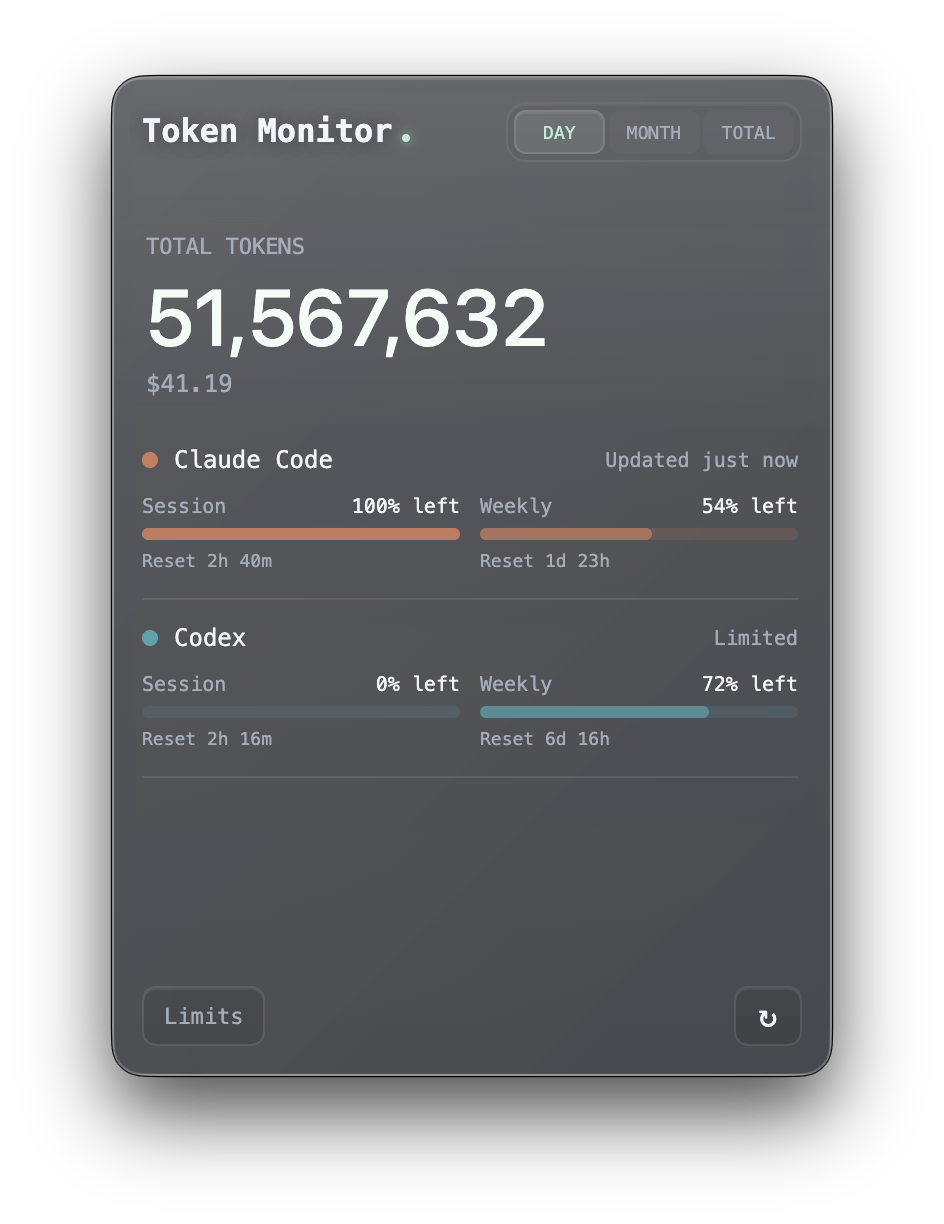
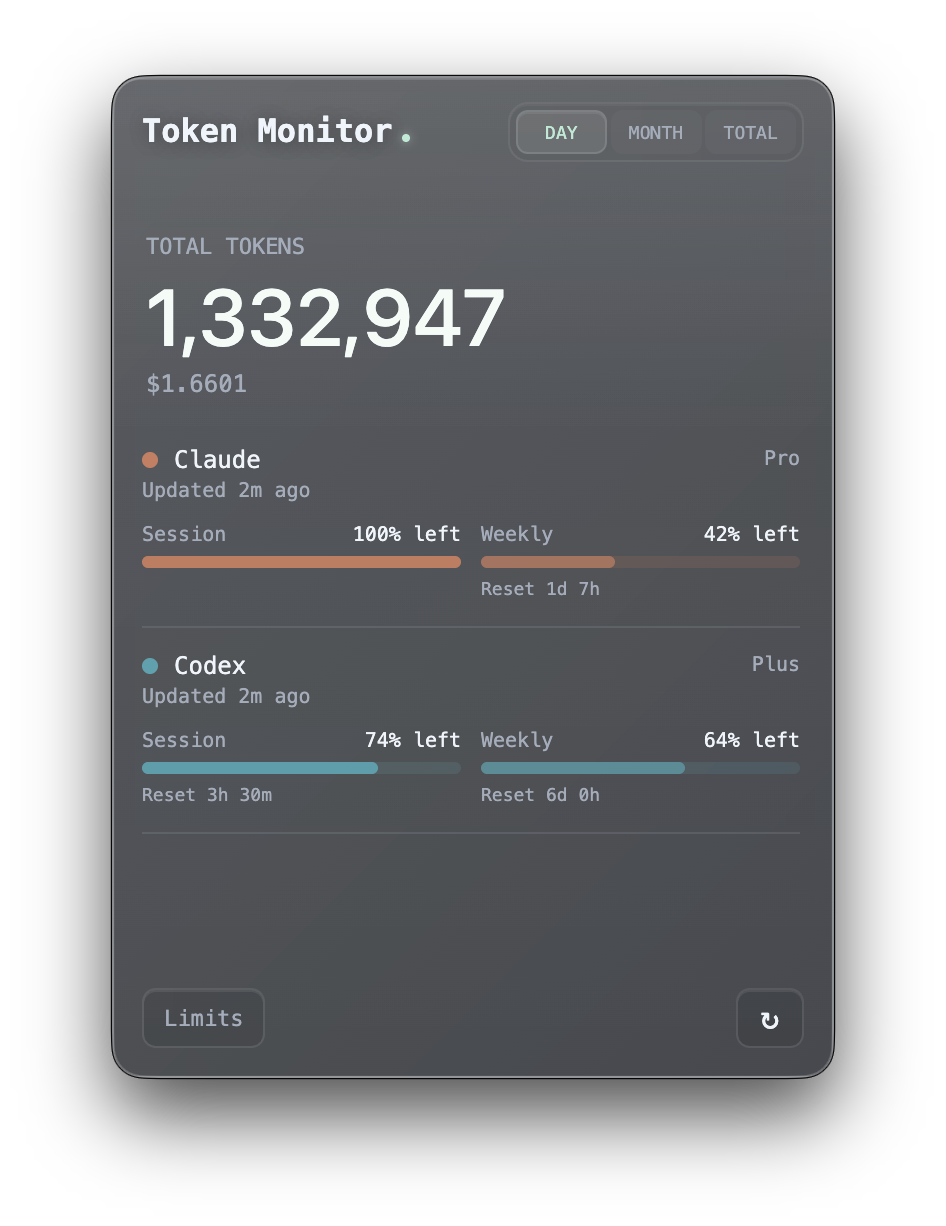
feat: show AI Tool Limits plan labels

diff --git a/src/shared/limitCollector.js b/src/shared/limitCollector.js
@@ -86,6 +86,23 @@ function uniqueStrings(values) {
   return out;
 }
 
+function planLabelFromParts(...parts) {
+  const text = parts.map((part) => String(part || '')).find(Boolean) || '';
+  const raw = text.toLowerCase().replace(/^(claude|chatgpt|openai)[\s_-]+/, '').replace(/[_-]+/g, ' ').trim();
+  if (!raw || raw.includes('@')) return '';
+  const aliases = {
+    free: 'Free',
+    plus: 'Plus',
+    pro: 'Pro',
+    max: 'Max',
+    team: 'Team',
+    teams: 'Team',
+    enterprise: 'Enterprise'
+  };
+  if (aliases[raw]) return aliases[raw];
+  return raw.split(/\s+/).slice(0, 3).map((word) => word.charAt(0).toUpperCase() + word.slice(1)).join(' ');
+}
+
 function extractClaudeOauth(credentials) {
   return credentials?.claudeAiOauth || credentials?.oauth || credentials || null;
 }
@@ -105,7 +122,8 @@ async function readClaudeCredentials(deps = {}) {
     if (oauth?.accessToken) {
       return {
         accessToken: String(oauth.accessToken),
-        identity: `path:${env.CLAUDE_CONFIG_DIR ? 'CLAUDE_CONFIG_DIR/.credentials.json' : '~/.claude/.credentials.json'}:${oauth.subscriptionType || ''}:${oauth.rateLimitTier || ''}`
+        identity: `path:${env.CLAUDE_CONFIG_DIR ? 'CLAUDE_CONFIG_DIR/.credentials.json' : '~/.claude/.credentials.json'}:${oauth.subscriptionType || ''}:${oauth.rateLimitTier || ''}`,
+        accountLabel: planLabelFromParts(oauth.subscriptionType, oauth.rateLimitTier)
       };
     }
   } catch (error) {
@@ -119,7 +137,8 @@ async function readClaudeCredentials(deps = {}) {
       if (oauth?.accessToken) {
         return {
           accessToken: String(oauth.accessToken),
-          identity: `keychain:Claude Code-credentials:${oauth.subscriptionType || ''}:${oauth.rateLimitTier || ''}`
+          identity: `keychain:Claude Code-credentials:${oauth.subscriptionType || ''}:${oauth.rateLimitTier || ''}`,
+          accountLabel: planLabelFromParts(oauth.subscriptionType, oauth.rateLimitTier)
         };
       }
     }
@@ -217,6 +236,7 @@ function mapClaudeUsageToProvider(usage, meta = {}) {
   return normalizeLimitProvider({
     provider: 'claude',
     accountKey: meta.accountKey || '',
+    accountLabel: meta.accountLabel || '',
     source: meta.source || 'oauth',
     status: 'ok',
     updatedAt: meta.updatedAt,
@@ -235,6 +255,7 @@ async function fetchClaudeLimits(options = {}, deps = {}) {
     }, deps);
     return mapClaudeUsageToProvider(usage, {
       accountKey: hashKey('claude', credentials.identity),
+      accountLabel: credentials.accountLabel,
       updatedAt: nowIso(nowMs),
       source: 'oauth'
     });
@@ -367,6 +388,7 @@ function parseClaudeCliUsageText(text, now = new Date()) {
   const secondaryResetDescription = extractClaudeReset(lines, 'Current week');
   const accountEmail = (clean.match(/(?:Account|Email):\s*([^\s@]+@[^\s@]+)/i) || [])[1] || '';
   const accountOrganization = ((clean.match(/(?:Org|Organization):\s*(.+)/i) || [])[1] || '').trim();
+  const accountLabel = planLabelFromParts((clean.match(/(?:Plan|Subscription):\s*([A-Za-z][A-Za-z0-9 _-]{0,30})/i) || [])[1] || '');
   if (sessionPercentLeft === null) throw errorWithStatus('unavailable', 'Claude CLI usage missing current session');
   return {
     sessionPercentLeft,
@@ -375,6 +397,7 @@ function parseClaudeCliUsageText(text, now = new Date()) {
     secondaryResetDescription,
     primaryResetsAt: parseClaudeResetDate(primaryResetDescription, now),
     secondaryResetsAt: parseClaudeResetDate(secondaryResetDescription, now),
+    accountLabel,
     accountKey: [accountEmail, accountOrganization].filter(Boolean).join('|') || 'claude-cli'
   };
 }
@@ -399,6 +422,7 @@ function mapClaudeCliUsageToProvider(text, meta = {}) {
   return normalizeLimitProvider({
     provider: 'claude',
     accountKey: hashKey('claude-cli', parsed.accountKey),
+    accountLabel: parsed.accountLabel,
     source: 'cli',
     status: 'ok',
     updatedAt: meta.updatedAt,
@@ -513,8 +537,30 @@ function codexWindowKind(name, window) {
   return 'session';
 }
 
+function codexRateLimitSnapshot(payload = {}) {
+  const rateLimitsById = payload.rateLimitsByLimitId || payload.rate_limits_by_limit_id || {};
+  return rateLimitsById.codex || payload.rateLimits || payload.rate_limits || {};
+}
+
+function codexAccountLabel(payload = {}) {
+  const snapshot = codexRateLimitSnapshot(payload);
+  const account = payload.account || {};
+  return planLabelFromParts(
+    snapshot.planType,
+    snapshot.plan_type,
+    account.planType,
+    account.plan_type,
+    account.loginMethod,
+    account.login_method,
+    account.plan,
+    account.subscription?.planType,
+    account.subscription?.plan_type,
+    account.subscription?.plan
+  );
+}
+
 function mapCodexRateLimitsToProvider(payload, meta = {}) {
-  const rateLimits = payload?.rateLimits || payload?.rate_limits || {};
+  const rateLimits = codexRateLimitSnapshot(payload);
   const windows = [];
   for (const key of ['primary', 'secondary']) {
     const window = rateLimits[key];
@@ -529,6 +575,7 @@ function mapCodexRateLimitsToProvider(payload, meta = {}) {
   return normalizeLimitProvider({
     provider: 'codex',
     accountKey: meta.accountKey || '',
+    accountLabel: meta.accountLabel || codexAccountLabel(payload),
     source: meta.source || 'rpc',
     status: rateLimits.rateLimitReachedType ? 'rateLimited' : 'ok',
     updatedAt: meta.updatedAt,
@@ -724,11 +771,12 @@ async function readCodexRpcWithCommand(command, deps = {}) {
     const rateLimitResult = await rpc.send('account/rateLimits/read');
     const accountResult = await rpc.send('account/read').catch(() => null);
     const account = accountResult?.account || null;
-    const rateLimits = rateLimitResult?.rateLimits || rateLimitResult?.rate_limits || {};
+    const rateLimitsByLimitId = rateLimitResult?.rateLimitsByLimitId || rateLimitResult?.rate_limits_by_limit_id || {};
+    const rateLimits = rateLimitResult?.rateLimits || rateLimitResult?.rate_limits || rateLimitsByLimitId.codex || {};
     if (!account && !rateLimits?.primary && !rateLimits?.secondary) {
       throw errorWithStatus('notConfigured', 'Codex account not configured');
     }
-    return { account, rateLimits };
+    return { account, rateLimits, rateLimitsByLimitId };
   } finally {
     try { child.kill('SIGTERM'); } catch (_) {}
   }
@@ -755,6 +803,7 @@ async function fetchCodexLimits(options = {}, deps = {}) {
   const identity = payload.account?.email || `${payload.account?.type || 'account'}:${payload.account?.planType || ''}:${deps.codexAuthPath || codexAuthPath(deps.env || process.env)}`;
   return mapCodexRateLimitsToProvider(payload, {
     accountKey: hashKey('codex', identity),
+    accountLabel: codexAccountLabel(payload),
     updatedAt: nowIso(nowMs),
     source: 'rpc'
   });

diff --git a/src/electron/renderer/app.js b/src/electron/renderer/app.js
@@ -11,7 +11,7 @@ const KNOWN_CLIENTS = [
   { id: 'cursor', label: 'Cursor' }
 ];
 const LIMIT_PROVIDERS = [
-  { id: 'claude', label: 'Claude Code' },
+  { id: 'claude', label: 'Claude', settingsLabel: 'Claude Code' },
   { id: 'codex', label: 'Codex' }
 ];
 const LIMIT_REFRESH_OPTIONS = [60000, 120000, 300000, 900000, 1800000];
@@ -204,6 +204,12 @@ function limitProviderMeta(provider) {
   return limitStatusLabel(provider.status, false);
 }
 
+function limitProviderPlan(provider) {
+  const label = String(provider?.accountLabel || '').trim();
+  if (label) return label;
+  return provider?.status && provider.status !== 'ok' ? limitStatusLabel(provider.status, false) : '';
+}
+
 function enabledLimitProviderSet() {
   if (state.settings?.limitsEnabled === false) return new Set();
   const raw = state.settings?.limitProviders;
@@ -271,6 +277,8 @@ function renderLimits() {
     row.className = `limit-row${provider.stale ? ' stale' : ''}`;
     const head = document.createElement('div');
     head.className = 'limit-head';
+    const titleBlock = document.createElement('div');
+    titleBlock.className = 'limit-title';
     const name = document.createElement('div');
     name.className = 'limit-name';
     const dot = document.createElement('span');
@@ -279,10 +287,14 @@ function renderLimits() {
     const title = document.createElement('span');
     title.textContent = label;
     name.append(dot, title);
-    const status = document.createElement('div');
-    status.className = 'limit-status';
-    status.textContent = limitProviderMeta(provider);
-    head.append(name, status);
+    const meta = document.createElement('div');
+    meta.className = 'limit-meta';
+    meta.textContent = provider.status === 'ok' || provider.stale ? limitProviderMeta(provider) : '';
+    titleBlock.append(name, meta);
+    const plan = document.createElement('div');
+    plan.className = 'limit-plan';
+    plan.textContent = limitProviderPlan(provider);
+    head.append(titleBlock, plan);
     const windows = document.createElement('div');
     windows.className = 'limit-windows';
     windows.append(limitWindowNode('Session', windowForKind(provider, 'session'), color, 0.95));
@@ -468,7 +480,7 @@ function renderLimitProviderCheckboxes() {
   }
   const enabled = enabledLimitProviderSet();
   els.limitProviderCheckboxes.replaceChildren();
-  for (const { id, label } of LIMIT_PROVIDERS) {
+  for (const { id, label, settingsLabel } of LIMIT_PROVIDERS) {
     const wrap = document.createElement('label');
     wrap.className = 'client-checkbox';
     const cb = document.createElement('input');
@@ -477,7 +489,7 @@ function renderLimitProviderCheckboxes() {
     cb.checked = enabled.has(id);
     cb.addEventListener('change', onLimitProviderToggle);
     const text = document.createElement('span');
-    text.textContent = label;
+    text.textContent = settingsLabel || label;
     wrap.append(cb, text);
     els.limitProviderCheckboxes.appendChild(wrap);
   }

diff --git a/src/electron/renderer/styles.css b/src/electron/renderer/styles.css
@@ -380,6 +380,12 @@ input, textarea, [contenteditable="true"] {
   justify-content: space-between;
   gap: 8px;
 }
+.limit-head { align-items: start; }
+.limit-title {
+  display: grid;
+  min-width: 0;
+  gap: 2px;
+}
 .limit-name {
   display: flex;
   min-width: 0;
@@ -394,7 +400,25 @@ input, textarea, [contenteditable="true"] {
   text-overflow: ellipsis;
   white-space: nowrap;
 }
-.limit-status { flex: 0 0 auto; color: var(--muted); font-size: 10px; white-space: nowrap; }
+.limit-meta {
+  overflow: hidden;
+  color: var(--muted);
+  font-size: 10px;
+  line-height: 1.2;
+  text-overflow: ellipsis;
+  white-space: nowrap;
+}
+.limit-plan {
+  flex: 0 0 auto;
+  max-width: 42%;
+  overflow: hidden;
+  color: var(--muted);
+  font-size: 10px;
+  line-height: 1.2;
+  text-align: right;
+  text-overflow: ellipsis;
+  white-space: nowrap;
+}
 .limit-windows {
   display: grid;
   grid-template-columns: 1fr 1fr;

diff --git a/src/shared/limits.js b/src/shared/limits.js
@@ -35,6 +35,13 @@ function normalizeSource(value) {
   return VALID_SOURCES.has(raw) ? raw : '';
 }
 
+function normalizeAccountLabel(value) {
+  const raw = String(value || '').trim();
+  if (!raw || raw.length > 32 || raw.includes('@') || /^https?:\/\//i.test(raw)) return '';
+  const clean = raw.replace(/[^a-z0-9 +._-]/gi, '').replace(/\s+/g, ' ').trim();
+  return clean.length <= 32 ? clean : '';
+}
+
 function normalizeWindowKind(value) {
   const raw = String(value || '').trim().toLowerCase().replace(/[_\s-]+/g, '');
   if (raw === 'session') return 'session';
@@ -97,7 +104,7 @@ function normalizeLimitProvider(input) {
   return {
     provider,
     accountKey: input.accountKey ? String(input.accountKey) : '',
-    accountLabel: '',
+    accountLabel: normalizeAccountLabel(input.accountLabel),
     status: normalizeStatus(input.status),
     source: normalizeSource(input.source),
     updatedAt: normalizeIsoTimestamp(input.updatedAt) || normalizeIsoTimestamp(input.checkedAt),

diff --git a/README.md b/README.md
@@ -186,6 +186,7 @@ are gitignored.
 ## Acknowledgments
 
 - [tokscale](https://github.com/junhoyeo/tokscale) for log parsing and token accounting.
+- [CodexBar](https://github.com/steipete/CodexBar) for AI Tool Limits research.
 
 ## License
 